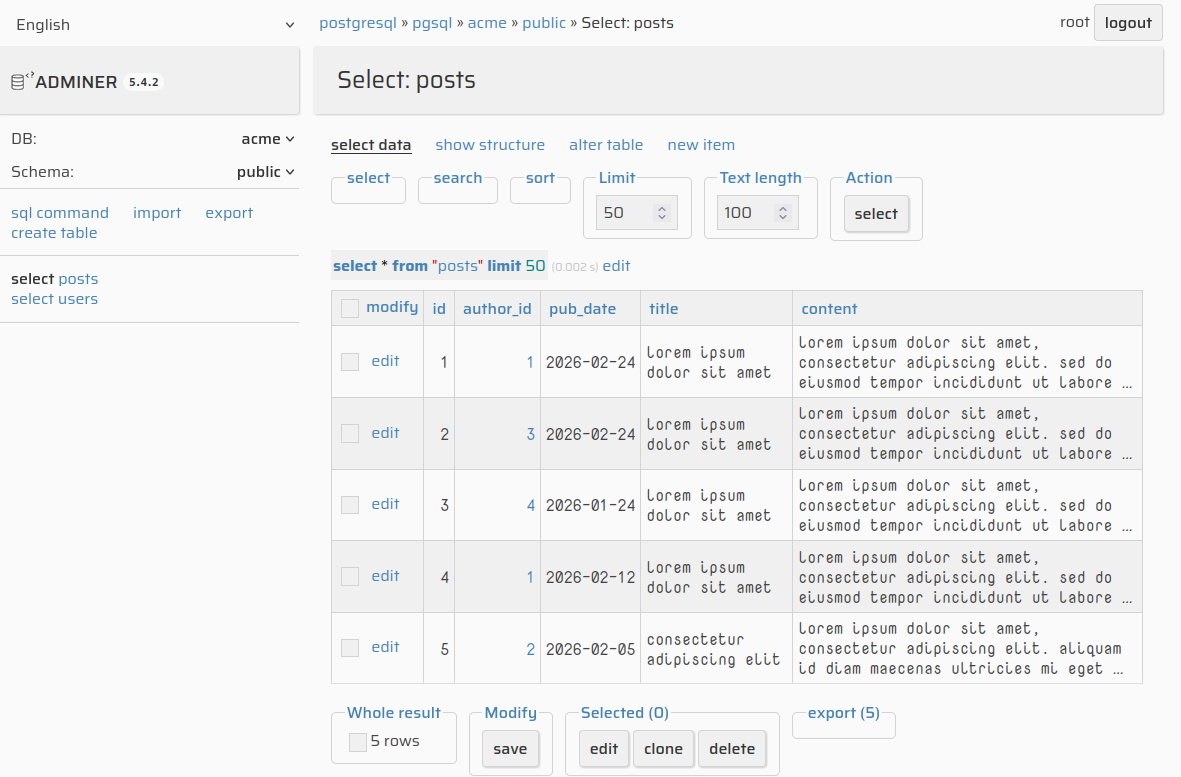
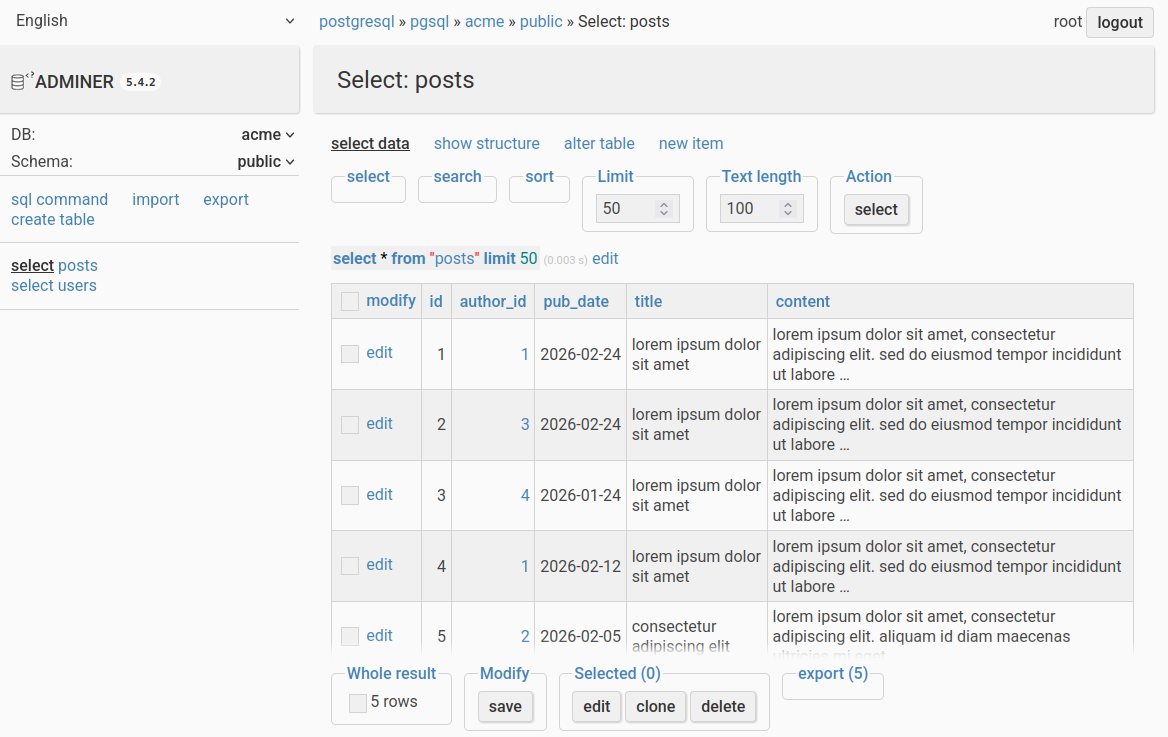
chore: minor changes

diff --git a/themes/assets/theme-fonts.css b/themes/assets/theme-fonts.css
@@ -1,22 +1,21 @@
 /* load your prefered fonts from google fonts or other provider*/
 
-@import url("https://fonts.googleapis.com/css2?family=Saira:wght@400;500;600;700&display=swap");
-/* @import url("https://fonts.googleapis.com/css2?family=Roboto:wght@400;500;700&display=swap"); */
+/* @import url("https://fonts.googleapis.com/css2?family=Saira:wght@400;500;700&display=swap"); */
+@import url("https://fonts.googleapis.com/css2?family=Roboto:wght@400;500;700&display=swap");
 /* @import url("https://fonts.googleapis.com/css2?family=Arimo:wght@400;500;600;700&display=swap"); */
 
-@import url("https://fonts.googleapis.com/css2?family=Nova+Mono:wght@400;500;700&display=swap");
-/* @import url("https://fonts.googleapis.com/css2?family=Sometype+Mono:wght@400;500;700&display=swap"); */
-/* @import url("https://fonts.googleapis.com/css2?family=Source+Code+Pro:wght@400;500;700&display=swap"); */
-/* @import url("https://fonts.googleapis.com/css2?family=Courier+Prime:wght@400;500;700&display=swap"); */
+/* @import url("https://fonts.googleapis.com/css2?family=Nova+Mono:wght@400;500;700&display=swap");
+@import url("https://fonts.googleapis.com/css2?family=Sometype+Mono:wght@400;500;700&display=swap");
+@import url("https://fonts.googleapis.com/css2?family=Source+Code+Pro:wght@400;500;700&display=swap"); */
 
 :root {
     /* global primary font */
-    --theme-font-primary: Saira, sans-serif;
+    --theme-font-primary:  Roboto, sans-serif;
     --theme-font-size-primary: medium;
 
-    /* specific datatable font & size: if not required, comment or set as "inherit" */
-    --theme-datatable-font: 'Nova Mono', monospace;
-    --theme-datatable-font-size: 90%;
+    /* specific datatable font & size: overwrite "inherit" as required */
+    --theme-datatable-font:  inherit;
+    --theme-datatable-font-size: inherit;
 
     /* white-space and overflow config */
     --theme-datatable-white-space: normal;

diff --git a/themes/adminer.css b/themes/adminer.css
@@ -89,7 +89,6 @@ h1 a#h1 {
 }
 
 p.logout {
-    transform: translateY(-4px);
     box-shadow: none !important;
 }
 
